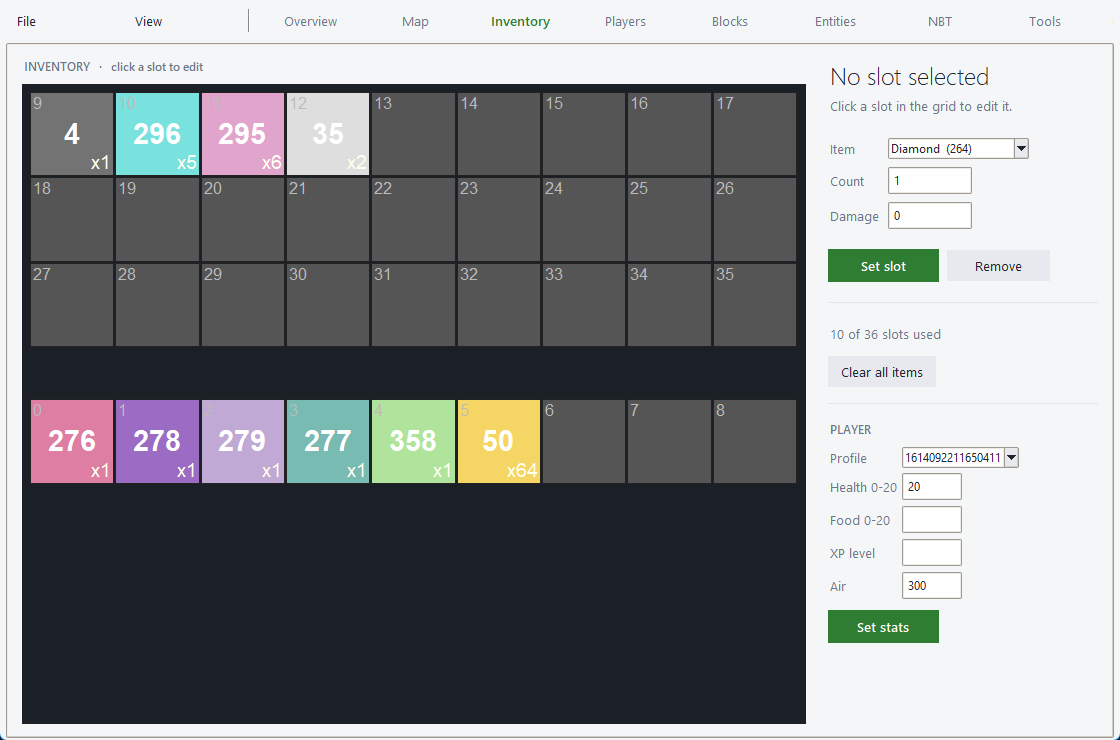
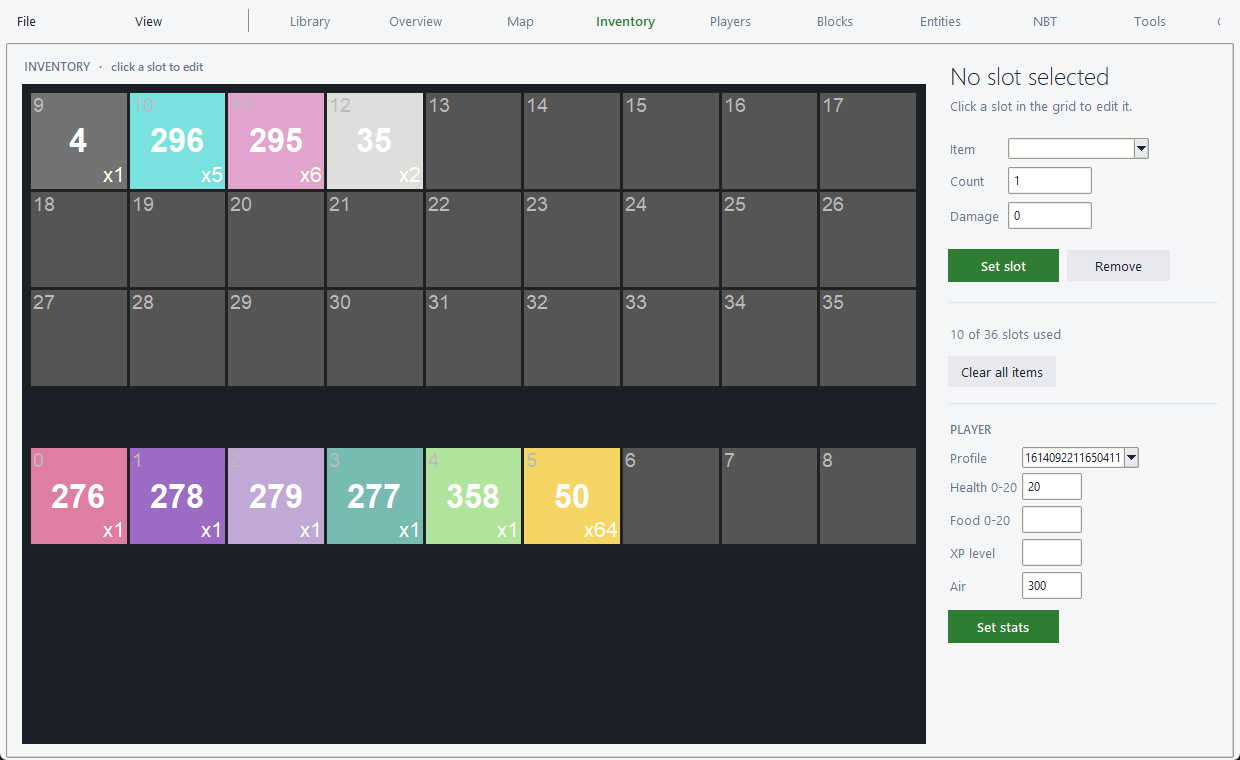
README: welcome/credits hero + refreshed, taskbar-free screenshots (2x3 grid)

diff --git a/README.md b/README.md
@@ -9,9 +9,7 @@ A complete toolkit for **Minecraft: Xbox 360 / Legacy Console Edition (LCE)** sa
 browse, edit, visualize, convert and write LCE saves, and write them back **console-exact**
 so they load in-game without freezing.
 
-![LCEStudio — the World Library gallery](docs/screenshot-library.png)
-
-*The World Library — every world in your saves folders, with thumbnails, search and detail-on-hover, ready to open, convert or repair.*
+![LCEStudio](docs/screenshot-welcome.png)
 
 It reads **every LCE chunk format** (old-NBT 128/256-tall, tile-storage v8–v11, and the
 Aquatic sectioned v12), so it opens worlds from **TU0 through TU75**, and it can convert them
@@ -46,6 +44,10 @@ use bundled DLLs.
 ## Screenshots
 
 <table>
+  <tr>
+    <td width="50%"><img src="docs/screenshot-library.png" alt="World Library"><br><b>World Library</b> — every world in your saves folders: thumbnail, platform, title update; search and detail-on-hover.</td>
+    <td width="50%"><img src="docs/screenshot-waypoints.png" alt="Waypoints & teleport"><br><b>Waypoints & teleport</b> — named pins on the map; teleport players with a safe surface-snap.</td>
+  </tr>
   <tr>
     <td width="50%"><img src="docs/screenshot-convert.png" alt="Convert tab"><br><b>Cross-platform converter</b> — Xbox 360 ↔ PS3 ↔ Windows LCE, export to Java, change title update, re-sign a CON.</td>
     <td width="50%"><img src="docs/screenshot-nbt.png" alt="Global NBT search"><br><b>Global NBT search</b> — find any item, entity, sign or tag across the whole save and open its tree.</td>
